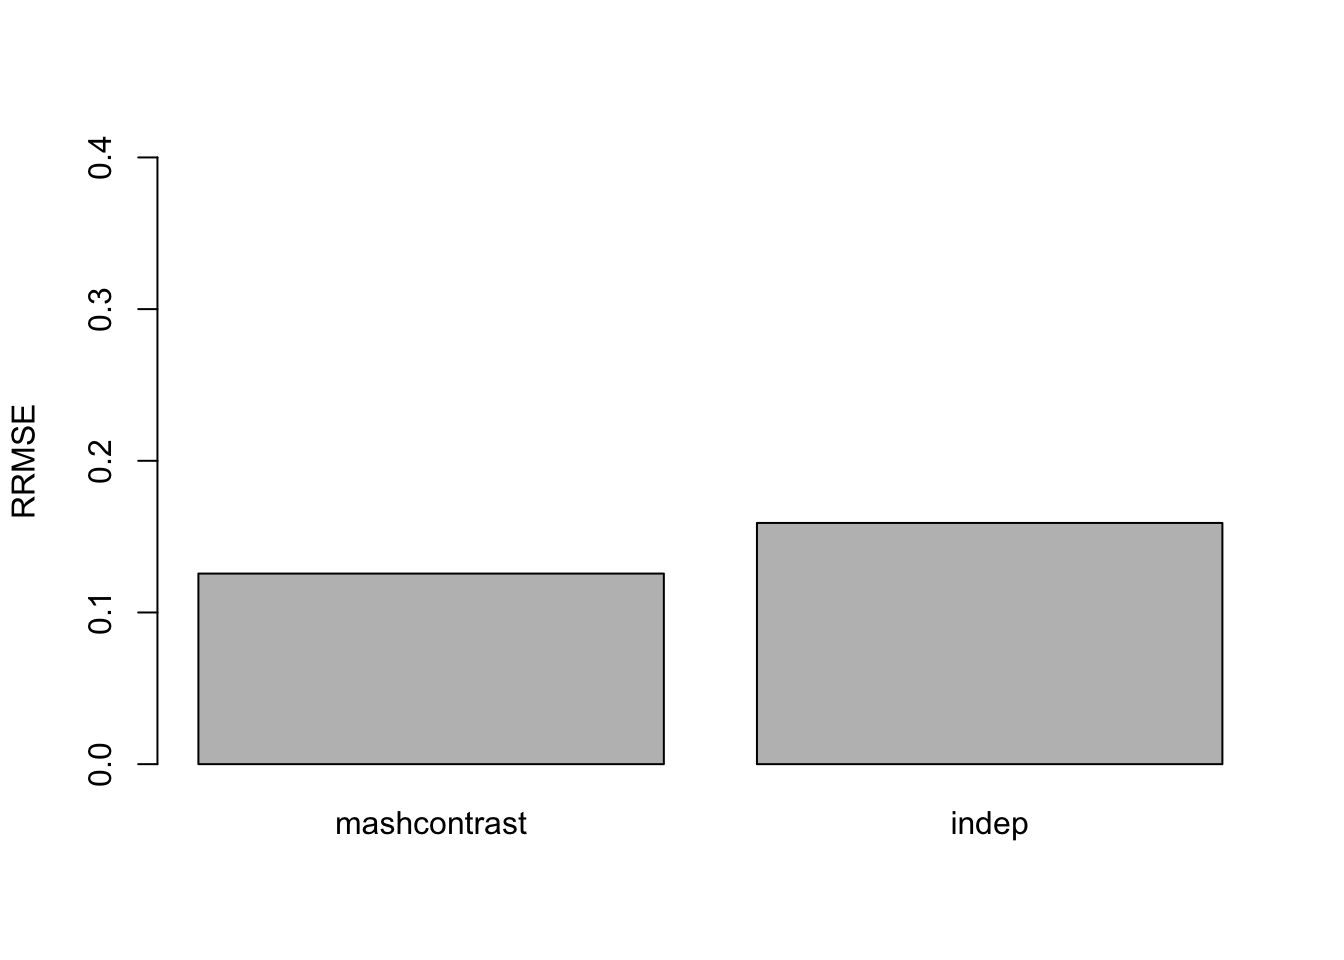
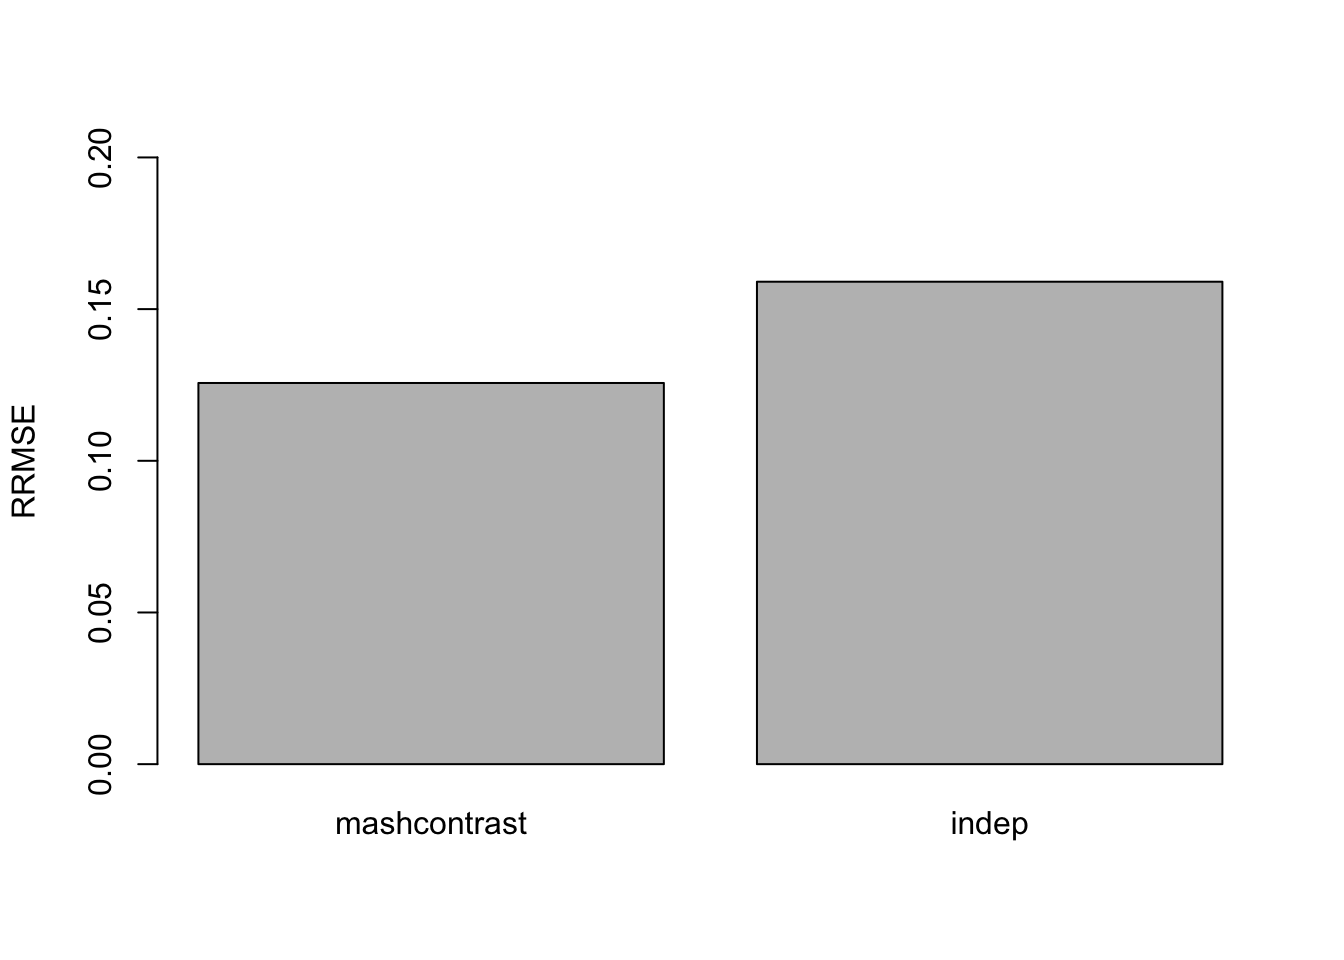
Build site.

diff --git a/docs/MeanSignal_Orig.html b/docs/MeanSignal_Orig.html
@@ -336,7 +336,7 @@ div.section {
 
 <!-- Update knitr chunk options -->
 <!-- Insert the date the file was last updated -->
-<p><strong>Last updated:</strong> 2018-04-25</p>
+<p><strong>Last updated:</strong> 2018-04-26</p>
 <!-- Insert the R version (Git commit SHA1) if Git repository exists and R
  package git2r is installed -->
 <pre><code>Loading required package: ashr</code></pre>
@@ -353,47 +353,47 @@ C = 2
 data = sim.mean.sig(nsamp=10000, ncond=C)</code></pre>
 <pre class="r"><code>L = matrix(-1/R, R, R)
 L[cbind(1:R,1:R)] = (R-1)/R
-L = L[1:(R-1),]
-row.names(L) = seq(1,R-1)
+L.10 = L[1:(R-1),]
+row.names(L.10) = seq(1,R-1)
 mash_data = mash_set_data(Bhat=data$Chat, Shat=data$Shat)
-mash_data_L = mash_set_data_contrast(mash_data, L)</code></pre>
-<pre class="r"><code>U.c = cov_canonical(mash_data_L)
+mash_data_L.10 = mash_set_data_contrast(mash_data, L.10)</code></pre>
+<pre class="r"><code>U.c = cov_canonical(mash_data_L.10)
 
 # data driven
 # select max
-m.1by1 = mash_1by1(mash_data_L, alpha=1)
+m.1by1 = mash_1by1(mash_data_L.10)
 strong = get_significant_results(m.1by1,0.05)
 # center Z
-mash_data_L.center = mash_data_L
-mash_data_L.center$Bhat = mash_data_L$Bhat/mash_data_L$Shat # obtain z
-mash_data_L.center$Shat = matrix(1, nrow(mash_data_L$Bhat),ncol(mash_data_L$Bhat))
+mash_data_L.center = mash_data_L.10
+mash_data_L.center$Bhat = mash_data_L.10$Bhat/mash_data_L.10$Shat # obtain z
+mash_data_L.center$Shat = matrix(1, nrow(mash_data_L.10$Bhat),ncol(mash_data_L.10$Bhat))
 mash_data_L.center$Bhat = apply(mash_data_L.center$Bhat, 2, function(x) x - mean(x))
 U.pca = cov_pca(mash_data_L.center,2,strong)
 U.ed = cov_ed(mash_data_L.center, U.pca, strong)
 
-mashcontrast.model = mash(mash_data_L, c(U.c, U.ed), algorithm.version = &#39;R&#39;, verbose = FALSE)</code></pre>
+mashcontrast.model.10 = mash(mash_data_L.10, c(U.c, U.ed), algorithm.version = &#39;R&#39;, verbose = FALSE)</code></pre>
 <p>Using <code>mashcommonbaseline</code>, there are 288 discoveries. The covariance structure found here is:</p>
-<pre class="r"><code>barplot(get_estimated_pi(mashcontrast.model),las = 2, cex.names = 0.7)</code></pre>
+<pre class="r"><code>barplot(get_estimated_pi(mashcontrast.model.10),las = 2, cex.names = 0.7)</code></pre>
 <p><img src="figure/MeanSignal_Orig.Rmd/unnamed-chunk-6-1.png" width="672" style="display: block; margin: auto;" /> The correlation for PCA1 is: <img src="figure/MeanSignal_Orig.Rmd/unnamed-chunk-7-1.png" width="288" style="display: block; margin: auto;" /></p>
 <p>The correlation identified here is correct.</p>
 </div>
 <div id="subtract-mean-directly" class="section level1">
 <h1>Subtract mean directly</h1>
 <p>If we subtract the mean from the data directly <span class="math display">\[Var(\hat{c}_{j,r}-\bar{\hat{c}_{j}}) = \frac{1}{2} - \frac{1}{2R}\]</span></p>
-<pre class="r"><code>Indep.data = mash_set_data(Bhat = mash_data_L$Bhat,
+<pre class="r"><code>Indep.data.10 = mash_set_data(Bhat = mash_data_L.10$Bhat,
                            Shat = matrix(sqrt(0.5-1/(2*R)), nrow(data$Chat), R-1))
 
-Indep.model = mash(Indep.data, c(U.c, U.ed), algorithm.version = &#39;R&#39;, verbose = FALSE)</code></pre>
+Indep.model.10 = mash(Indep.data.10, c(U.c, U.ed), algorithm.version = &#39;R&#39;, verbose = FALSE)</code></pre>
 <p>There are 336 discoveries, which is <strong>more</strong> than the <code>mashcommonbaseline</code> model. The covariance structure found here is:</p>
-<pre class="r"><code>barplot(get_estimated_pi(Indep.model),las = 2, cex.names = 0.7)</code></pre>
+<pre class="r"><code>barplot(get_estimated_pi(Indep.model.10),las = 2, cex.names = 0.7)</code></pre>
 <p><img src="figure/MeanSignal_Orig.Rmd/unnamed-chunk-9-1.png" width="672" style="display: block; margin: auto;" /> The weights for covariances are very different.</p>
 <p>The correlation for PCA2 and tPCA is: <img src="figure/MeanSignal_Orig.Rmd/unnamed-chunk-10-1.png" width="768" style="display: block; margin: auto;" /></p>
 </div>
 <div id="compare-models" class="section level1">
 <h1>Compare models</h1>
 <p>The RRMSE plot:</p>
-<pre class="r"><code>delta = data$C %*% t(L)
-barplot(c(sqrt(mean((delta - mashcontrast.model$result$PosteriorMean)^2)/mean((delta - data$Chat%*%t(L))^2)), sqrt(mean((delta - Indep.model$result$PosteriorMean)^2)/mean((delta - data$Chat%*%t(L))^2))), ylim=c(0,0.2), names.arg = c(&#39;mashcommonbaseline&#39;, &#39;mash.indep&#39;), ylab=&#39;RRMSE&#39;)</code></pre>
+<pre class="r"><code>delta = data$C %*% t(L.10)
+barplot(c(sqrt(mean((delta - mashcontrast.model.10$result$PosteriorMean)^2)/mean((delta - data$Chat%*%t(L.10))^2)), sqrt(mean((delta - Indep.model.10$result$PosteriorMean)^2)/mean((delta - data$Chat%*%t(L.10))^2))), ylim=c(0,0.2), names.arg = c(&#39;mashcommonbaseline&#39;, &#39;mash.indep&#39;), ylab=&#39;RRMSE&#39;)</code></pre>
 <p><img src="figure/MeanSignal_Orig.Rmd/unnamed-chunk-11-1.png" width="672" style="display: block; margin: auto;" /></p>
 <p>We check the False Positive Rate and True Positive Rate. <span class="math display">\[FPR = \frac{|N\cap S|}{|N|} \quad TPR = \frac{|CS\cap S|}{|T|} \]</span></p>
 <pre class="r"><code>CS_S = function(model, thresh=0.05, data){
@@ -407,7 +407,7 @@ N_S = function(model, thresh=0.05, data){
   sum(sig.index * N.index)
 }
 
-delta = data$C %*% t(L)
+delta = data$C %*% t(L.10)
 delta[abs(delta) &lt;= 1e-14] = 0
 N = sum(delta == 0)
 Tr = nrow(delta) * ncol(delta) - N
@@ -418,8 +418,8 @@ Indep = matrix(0,length(thresh.seq), 2)
 colnames(mashcontrast) = c(&#39;TPR&#39;, &#39;FPR&#39;)
 colnames(Indep) = c(&#39;TPR&#39;, &#39;FPR&#39;)
 for(t in 1:length(thresh.seq)){
-  mashcontrast[t,] = c(CS_S(mashcontrast.model, thresh.seq[t], delta)/Tr, N_S(mashcontrast.model, thresh.seq[t],delta)/N)
-  Indep[t,] = c(CS_S(Indep.model, thresh.seq[t], delta)/Tr,  N_S(Indep.model, thresh.seq[t],delta)/N)
+  mashcontrast[t,] = c(CS_S(mashcontrast.model.10, thresh.seq[t], delta)/Tr, N_S(mashcontrast.model.10, thresh.seq[t],delta)/N)
+  Indep[t,] = c(CS_S(Indep.model.10, thresh.seq[t], delta)/Tr,  N_S(Indep.model.10, thresh.seq[t],delta)/N)
 }</code></pre>
 <p><img src="figure/MeanSignal_Orig.Rmd/unnamed-chunk-13-1.png" width="672" style="display: block; margin: auto;" /></p>
 <p>These methods are similar in terms of the number of false positives versus true positive. The <code>mashcommonbaseline</code> model is slightly better than <code>mash.indep</code> model.</p>
@@ -429,36 +429,33 @@ for(t in 1:length(thresh.seq)){
 <p>The data was generated with signals in the first c conditions (<span class="math inline">\(c_{j,1}, \cdots, c_{j,c}\)</span>). The contrast matrix L used here discards the last condition. The deviations are <span class="math inline">\(\hat{c}_{j,1} - \bar{\hat{c}_{j}}, \hat{c}_{j,2} - \bar{\hat{c}_{j}}, \cdots, \hat{c}_{j,R-1} - \bar{\hat{c}_{j}}\)</span>.</p>
 <p>However, the contrast matrix L can discard any deviation from <span class="math inline">\(\hat{c}_{j,1} - \bar{\hat{c}_{j}}, \cdots, \hat{c}_{j,R} - \bar{\hat{c}_{j}}\)</span>. The choice of the discarded deviation could influence the reuslt.</p>
 <p>We run the same model with L that discard the first deviation.</p>
-<pre class="r"><code>L = matrix(-1/R, R, R)
-L[cbind(1:R,1:R)] = (R-1)/R
-L = L[2:R,]
-row.names(L) = seq(2,R)
-mash_data = mash_set_data(Bhat=data$Chat, Shat=data$Shat)
-mash_data_L = mash_set_data_contrast(mash_data, L)</code></pre>
-<pre class="r"><code>U.c = cov_canonical(mash_data_L)
+<pre class="r"><code>L.1 = L[2:R,]
+row.names(L.1) = seq(2,R)
+mash_data_L.1 = mash_set_data_contrast(mash_data, L.1)</code></pre>
+<pre class="r"><code>U.c = cov_canonical(mash_data_L.1)
 
 # data driven
 # select max
-m.1by1 = mash_1by1(mash_data_L, alpha=1)
+m.1by1 = mash_1by1(mash_data_L.1)
 strong = get_significant_results(m.1by1,0.05)
 # center Z
-mash_data_L.center = mash_data_L
-mash_data_L.center$Bhat = mash_data_L$Bhat/mash_data_L$Shat # obtain z
-mash_data_L.center$Shat = matrix(1, nrow(mash_data_L$Bhat),ncol(mash_data_L$Bhat))
+mash_data_L.center = mash_data_L.1
+mash_data_L.center$Bhat = mash_data_L.1$Bhat/mash_data_L.1$Shat # obtain z
+mash_data_L.center$Shat = matrix(1, nrow(mash_data_L.1$Bhat),ncol(mash_data_L.1$Bhat))
 mash_data_L.center$Bhat = apply(mash_data_L.center$Bhat, 2, function(x) x - mean(x))
 U.pca = cov_pca(mash_data_L.center,2,strong)
 U.ed = cov_ed(mash_data_L.center, U.pca, strong)
 
-mashcontrast.model = mash(mash_data_L, c(U.c, U.ed), algorithm.version = &#39;R&#39;, verbose = FALSE)</code></pre>
+mashcontrast.model.1 = mash(mash_data_L.1, c(U.c, U.ed), algorithm.version = &#39;R&#39;, verbose = FALSE)</code></pre>
 <p>Using <code>mashcommonbaseline</code> model, there are 283 discoveries. The covariance structure found here is:</p>
-<pre class="r"><code>barplot(get_estimated_pi(mashcontrast.model),las = 2, cex.names = 0.7)</code></pre>
+<pre class="r"><code>barplot(get_estimated_pi(mashcontrast.model.1),las = 2, cex.names = 0.7)</code></pre>
 <p><img src="figure/MeanSignal_Orig.Rmd/unnamed-chunk-16-1.png" width="672" style="display: block; margin: auto;" /> The correlation PCA 1 is: <img src="figure/MeanSignal_Orig.Rmd/unnamed-chunk-17-1.png" width="288" style="display: block; margin: auto;" /></p>
-<pre class="r"><code>Indep.data = mash_set_data(Bhat = mash_data_L$Bhat,
+<pre class="r"><code>Indep.data.1 = mash_set_data(Bhat = mash_data_L.1$Bhat,
                            Shat = matrix(sqrt(0.5-1/(R*2)), nrow(data$Chat), R-1))
 
-Indep.model = mash(Indep.data, c(U.c, U.ed), algorithm.version = &#39;R&#39;, verbose = FALSE)</code></pre>
+Indep.model.1 = mash(Indep.data.1, c(U.c, U.ed), algorithm.version = &#39;R&#39;, verbose = FALSE)</code></pre>
 <p>For <code>mashIndep</code> model, there are 217 discoveries, which is <strong>less</strong> than the <code>mashcommonbaseline</code> model. The covariance structure found here is:</p>
-<pre class="r"><code>barplot(get_estimated_pi(Indep.model),las = 2, cex.names = 0.7)</code></pre>
+<pre class="r"><code>barplot(get_estimated_pi(Indep.model.1),las = 2, cex.names = 0.7)</code></pre>
 <p><img src="figure/MeanSignal_Orig.Rmd/unnamed-chunk-19-1.png" width="672" style="display: block; margin: auto;" /></p>
 <p>The correlation for PCA2 and tPCA is: <img src="figure/MeanSignal_Orig.Rmd/unnamed-chunk-20-1.png" width="768" style="display: block; margin: auto;" /></p>
 <p>The RRMSE plot: <img src="figure/MeanSignal_Orig.Rmd/unnamed-chunk-21-1.png" width="672" style="display: block; margin: auto;" /></p>
